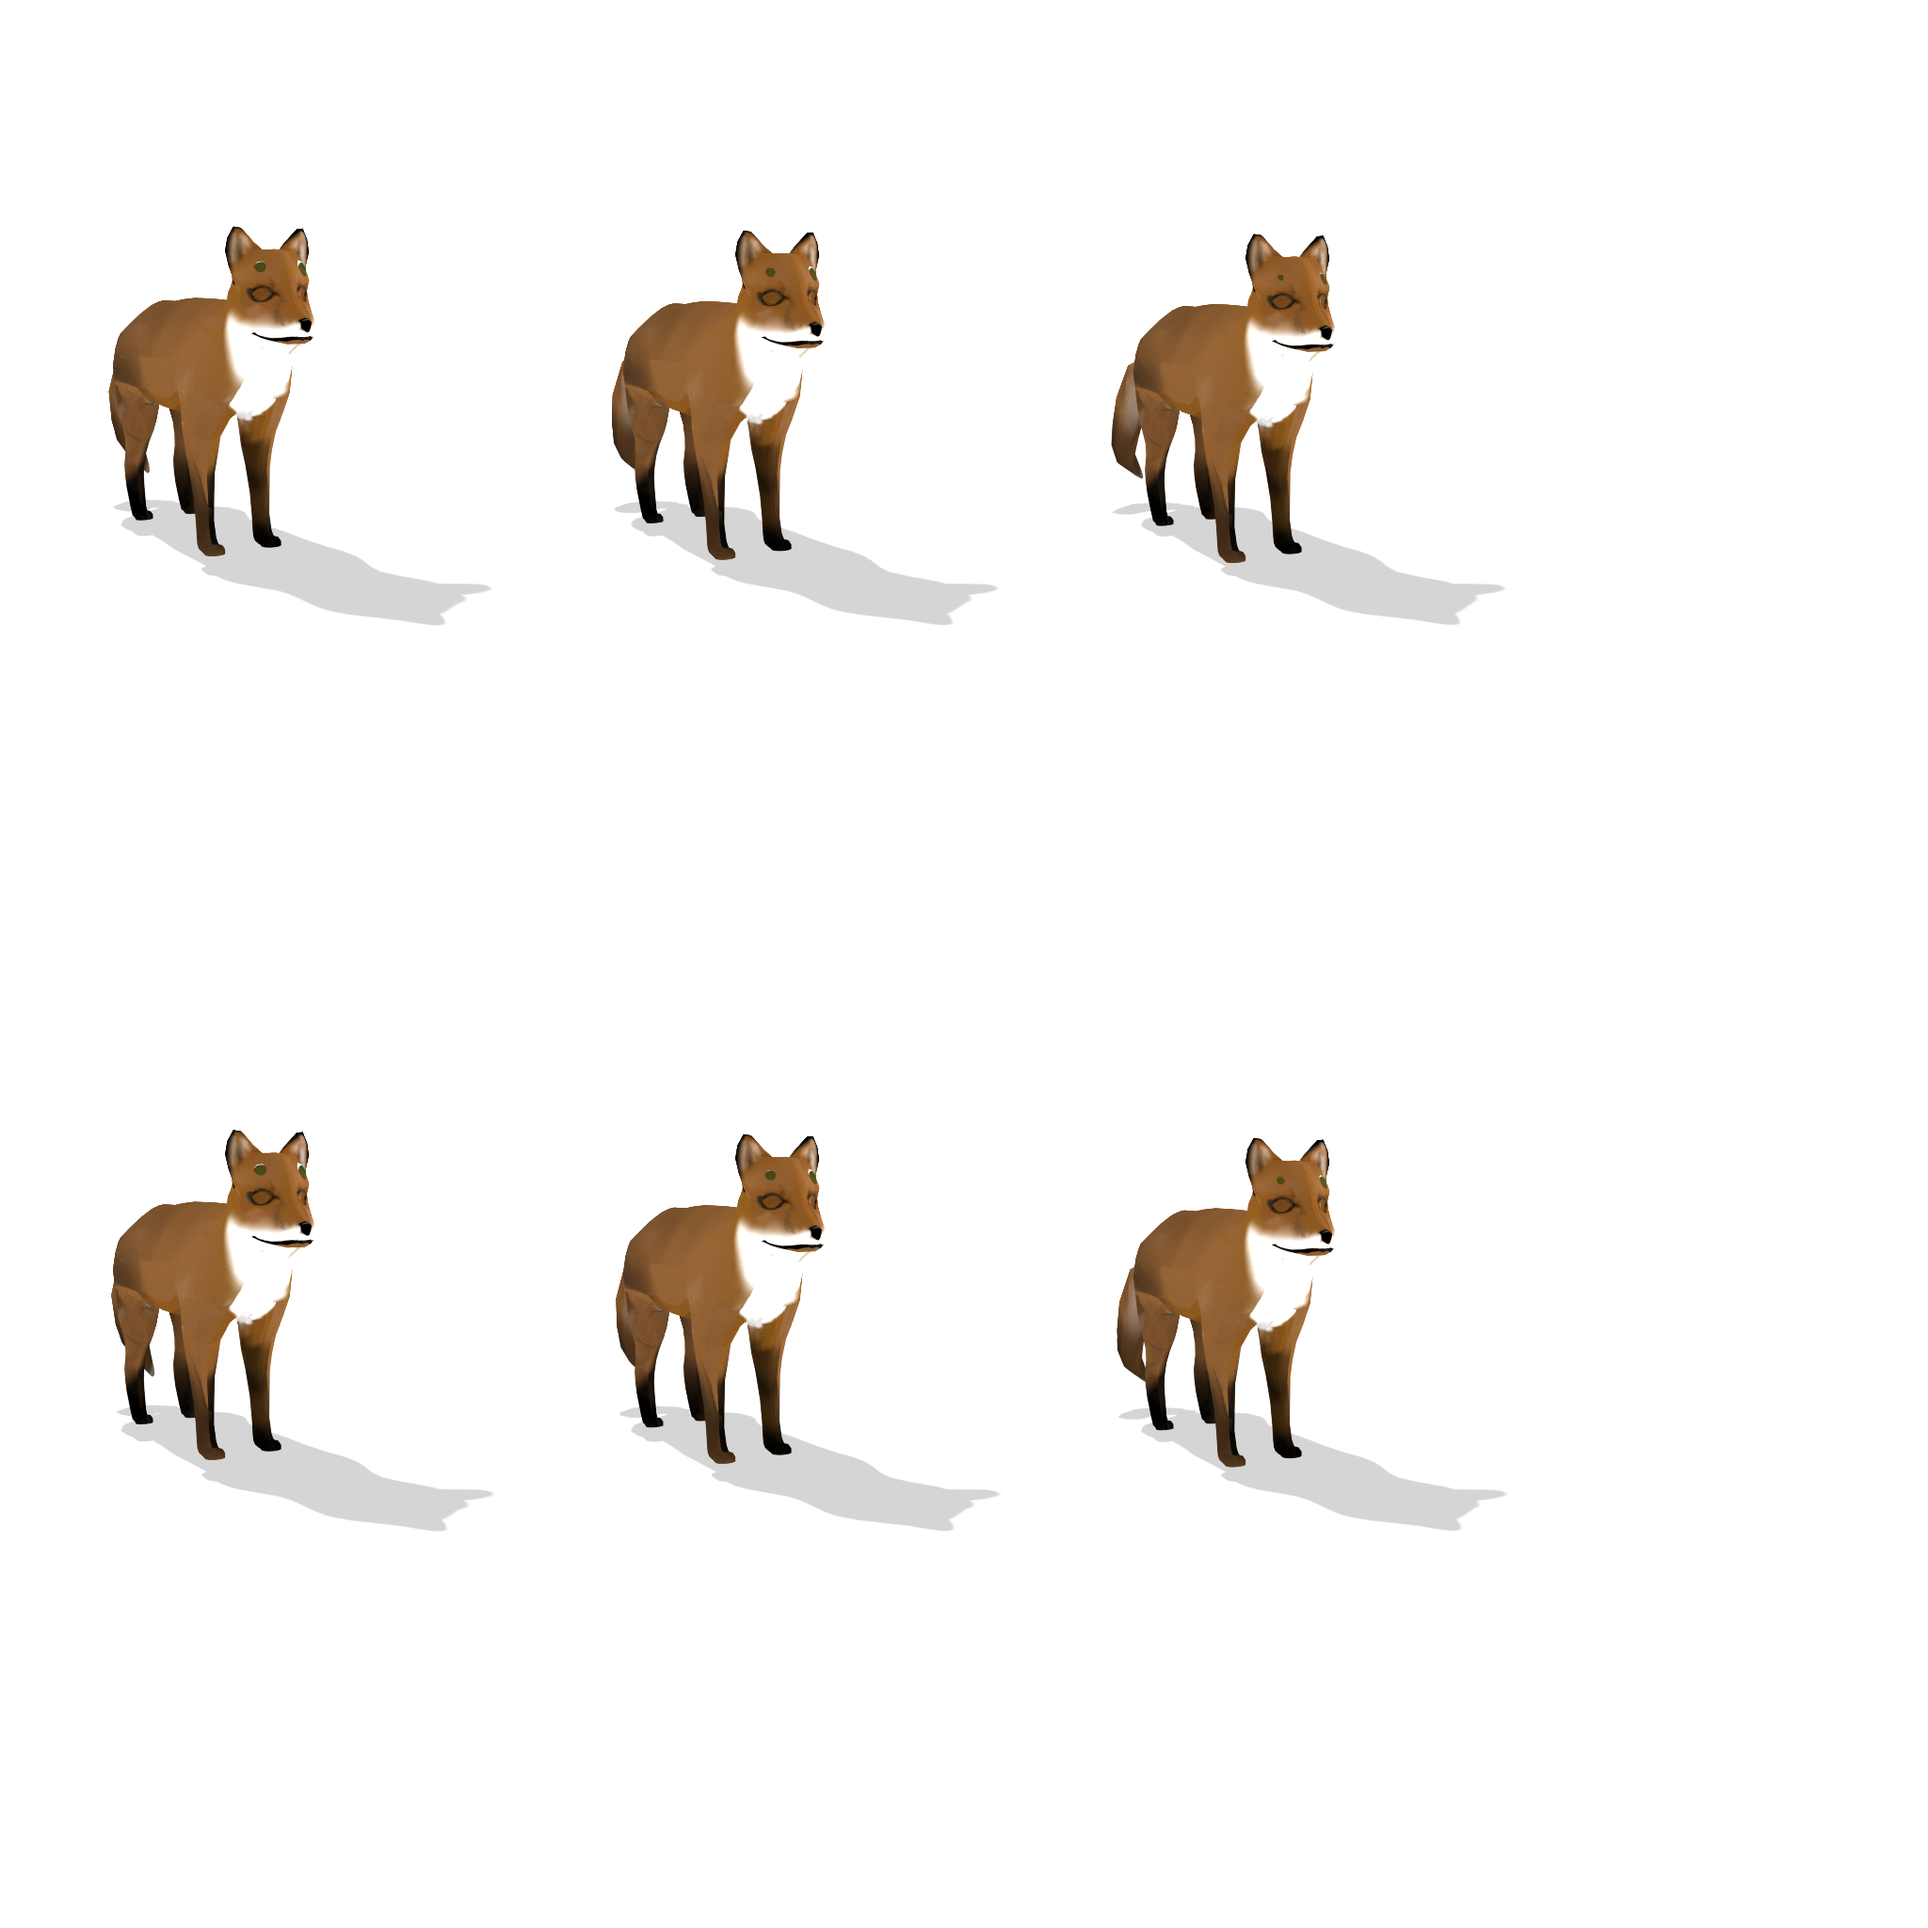
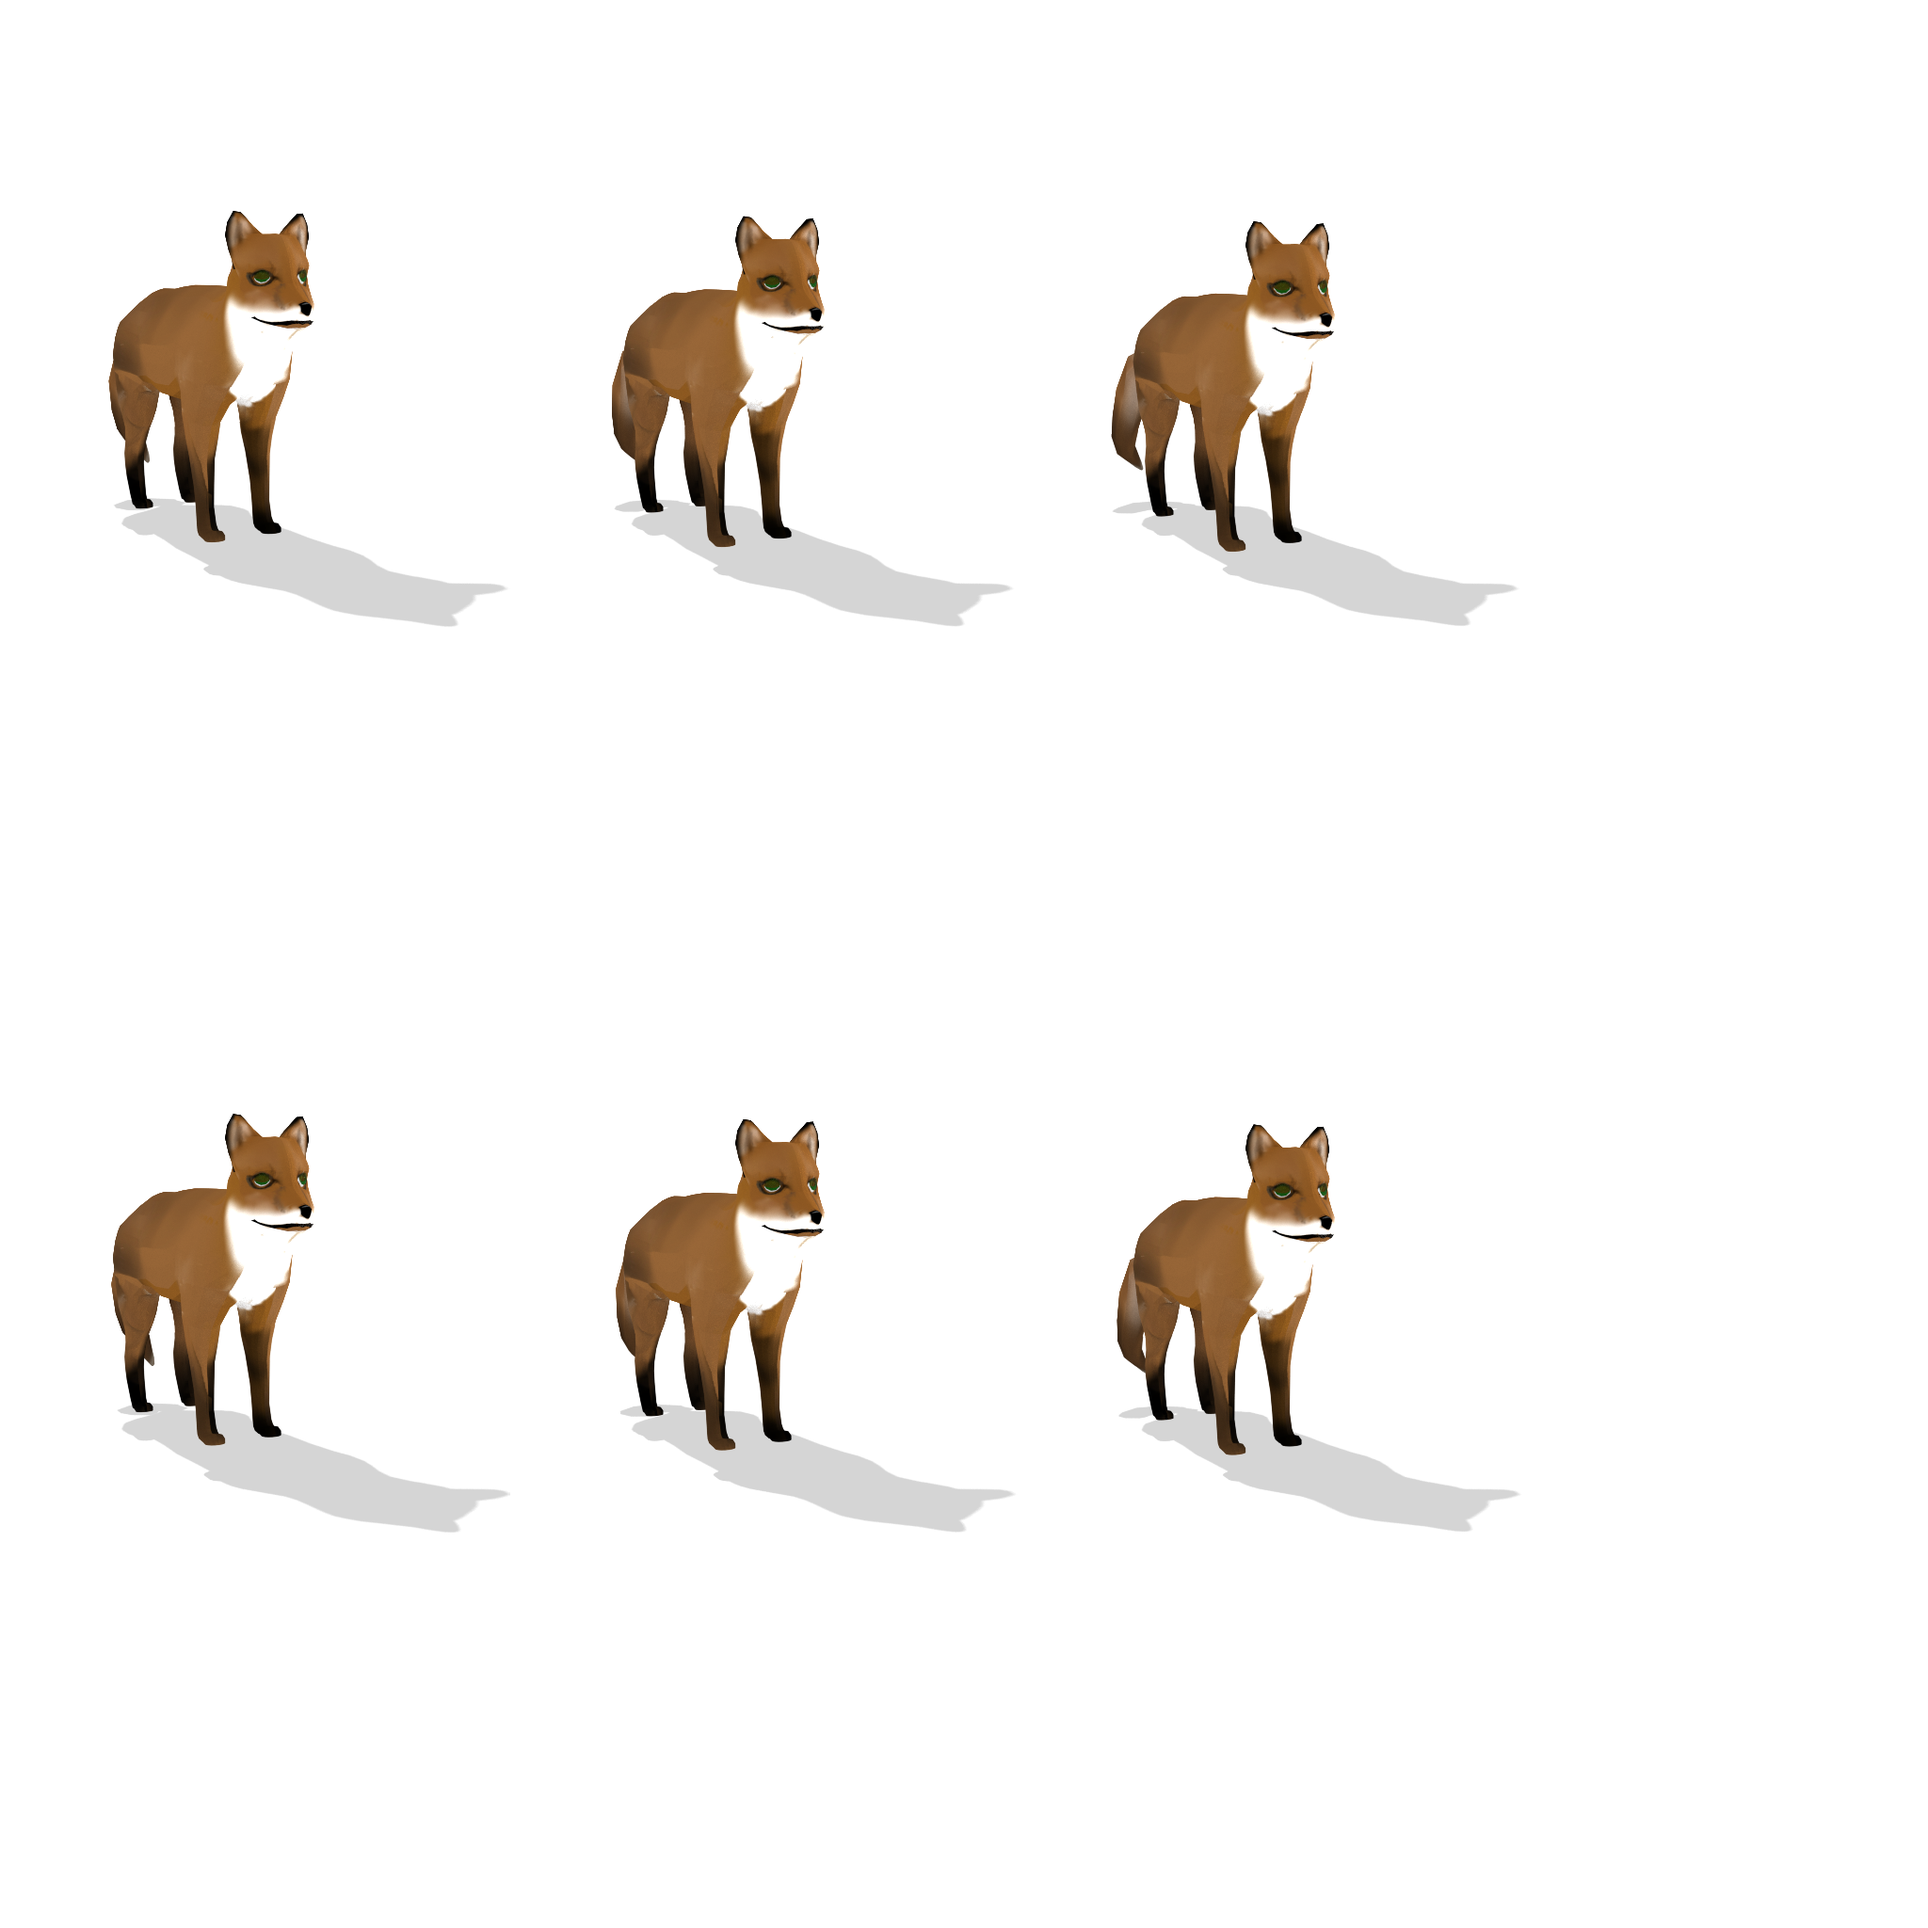
animations sliding done and prettified

diff --git a/android/src/com/foxyourprivacy/f0x1t/Activities/AnimationLauncher.java b/android/src/com/foxyourprivacy/f0x1t/Activities/AnimationLauncher.java
@@ -2,17 +2,23 @@ package com.foxyourprivacy.f0x1t.Activities;
 
 import android.graphics.Color;
 import android.os.Bundle;
+import android.support.design.widget.TabLayout;
 import android.support.v4.view.ViewPager;
 import android.support.v7.app.ActionBarActivity;
 import android.support.v7.widget.Toolbar;
+import android.view.LayoutInflater;
 import android.view.Menu;
 import android.view.MenuItem;
+import android.view.View;
+import android.view.ViewGroup;
+import android.widget.Button;
 
 import com.badlogic.gdx.backends.android.AndroidFragmentApplication;
 import com.foxyourprivacy.f0x1t.Animation.AnimationTail;
 import com.foxyourprivacy.f0x1t.Animation.CircularViewPagerHandler;
 import com.foxyourprivacy.f0x1t.Animation.SwipeAdapter;
 import com.foxyourprivacy.f0x1t.R;
+import com.foxyourprivacy.f0x1t.ValueKeeper;
 
 import static android.view.View.VISIBLE;
 import static com.foxyourprivacy.f0x1t.R.id.view_pager;
@@ -29,14 +35,12 @@ public class AnimationLauncher extends ActionBarActivity implements AndroidFragm
     /**
      * start animation via static fragment implementation
      * show android toolbar
-     *
      * @param savedInstanceState
      */
     @Override
     protected void onCreate(Bundle savedInstanceState) {
         super.onCreate(savedInstanceState);
         setContentView(R.layout.activity_animation);
-
 
         viewPager = (ViewPager) findViewById(view_pager);
         SwipeAdapter swipeAdapter = new SwipeAdapter(getSupportFragmentManager());
@@ -48,22 +52,20 @@ public class AnimationLauncher extends ActionBarActivity implements AndroidFragm
         toolbar = (Toolbar) findViewById(R.id.my_toolbar);
         setSupportActionBar(toolbar);
 
-
         //erste Animation bereits beim starten anzeigen
         AnimationTail tail = new AnimationTail();
         android.support.v4.app.FragmentTransaction transaction = getSupportFragmentManager().beginTransaction();
         transaction.add(R.id.tale, tail, "animationTale");
         transaction.commit();
         findViewById(R.id.tale).setVisibility(VISIBLE);
-
     }
 
-    /**
-     * show back button
-     *
-     * @param menu
-     * @return
-     */
+        /**
+         * show back button
+         *
+         * @param menu
+         * @return
+         */
     @Override
     public boolean onCreateOptionsMenu(Menu menu) {
         // Inflate the menu; this adds items to the action bar if it is present.

diff --git a/android/src/com/foxyourprivacy/f0x1t/Animation/Play.java b/android/src/com/foxyourprivacy/f0x1t/Animation/Play.java
@@ -61,7 +61,7 @@ public class Play implements ApplicationListener {
         elapsedTime += Gdx.graphics.getDeltaTime();
 
         batch.draw(texture, 0,0, width, height);
-        batch.draw(animation.getKeyFrame(elapsedTime, true), -width/5f, -height/2,width*1.5f,height*1.5f);
+        batch.draw(animation.getKeyFrame(elapsedTime, true), -width/6f, -height/2,width*1.3f,height*1.7f);
         batch.end();
     }
     @Override

diff --git a/android/src/com/foxyourprivacy/f0x1t/Animation/Tale.java b/android/src/com/foxyourprivacy/f0x1t/Animation/Tale.java
@@ -61,7 +61,7 @@ public class Tale implements ApplicationListener {
         elapsedTime += Gdx.graphics.getDeltaTime();
 
         batch.draw(texture, 0,0, width, height);
-        batch.draw(animation.getKeyFrame(elapsedTime, true), -width/6f, -height/3,width*1.3f,height*1.3f);
+        batch.draw(animation.getKeyFrame(elapsedTime, true), -width/6f, -height/2,width*1.3f,height*1.7f);
         batch.end();
     }
     @Override

diff --git a/android/src/com/foxyourprivacy/f0x1t/ValueKeeper.java b/android/src/com/foxyourprivacy/f0x1t/ValueKeeper.java
@@ -199,10 +199,7 @@ public class ValueKeeper {
         animationList.put("Spielen",false);
         valueKeeperAlreadyRefreshed = true;
     }
-
-
     public void saveInstance() {
-
         HashMap<String, String> values = new HashMap<String, String>();
         values.put("onboardingStartedBefore", Boolean.toString(onboardingStartedBefore));
         values.put("analysisDoneBefore", Boolean.toString(analysisDoneBefore));

diff --git a/android/src/com/foxyourprivacy/f0x1t/Animation/Vanish.java b/android/src/com/foxyourprivacy/f0x1t/Animation/Vanish.java
@@ -70,7 +70,7 @@ public class Vanish implements ApplicationListener {
         elapsedTime += Gdx.graphics.getDeltaTime();
 
         batch.draw(texture, 0,0, width, height);
-        batch.draw(animation.getKeyFrame(elapsedTime, true), -width/5f, -height/2,width*1.5f,height*1.5f);
+        batch.draw(animation.getKeyFrame(elapsedTime, true), -width/6f, -height/2,width*1.3f,height*1.7f);
         batch.end();
     }
 

diff --git a/android/src/com/foxyourprivacy/f0x1t/Animation/Fly.java b/android/src/com/foxyourprivacy/f0x1t/Animation/Fly.java
@@ -70,7 +70,7 @@ public class Fly implements ApplicationListener {
         elapsedTime += Gdx.graphics.getDeltaTime();
 
         batch.draw(texture, 0,0, width, height);
-        batch.draw(animation.getKeyFrame(elapsedTime, true), -width/5f, -height/2,width*1.5f,height*1.5f);
+        batch.draw(animation.getKeyFrame(elapsedTime, true), -width/6f, -height/2,width*1.3f,height*1.7f);
         batch.end();
     }
 

diff --git a/android/src/com/foxyourprivacy/f0x1t/Animation/Sit.java b/android/src/com/foxyourprivacy/f0x1t/Animation/Sit.java
@@ -70,7 +70,7 @@ public class Sit implements ApplicationListener {
         elapsedTime += Gdx.graphics.getDeltaTime();
 
         batch.draw(texture, 0,0, width, height);
-        batch.draw(animation.getKeyFrame(elapsedTime, true), -width/5f, -height/2,width*1.5f,height*1.5f);
+        batch.draw(animation.getKeyFrame(elapsedTime, true), -width/6f, -height/2,width*1.3f,height*1.7f);
         batch.end();
     }
 

diff --git a/android/src/com/foxyourprivacy/f0x1t/Fragments/AnimationListFragment.java b/android/src/com/foxyourprivacy/f0x1t/Fragments/AnimationListFragment.java
@@ -171,7 +171,6 @@ public class AnimationListFragment extends Fragment {
 
                 // set animation price or unlocked into the textview
                 TextView textView = (TextView) gridView.findViewById(R.id.grid_item_label);
-
                 if (animationArray[position].getUnlocked()) {
                     textView.setText("unlocked");
                 } else {
